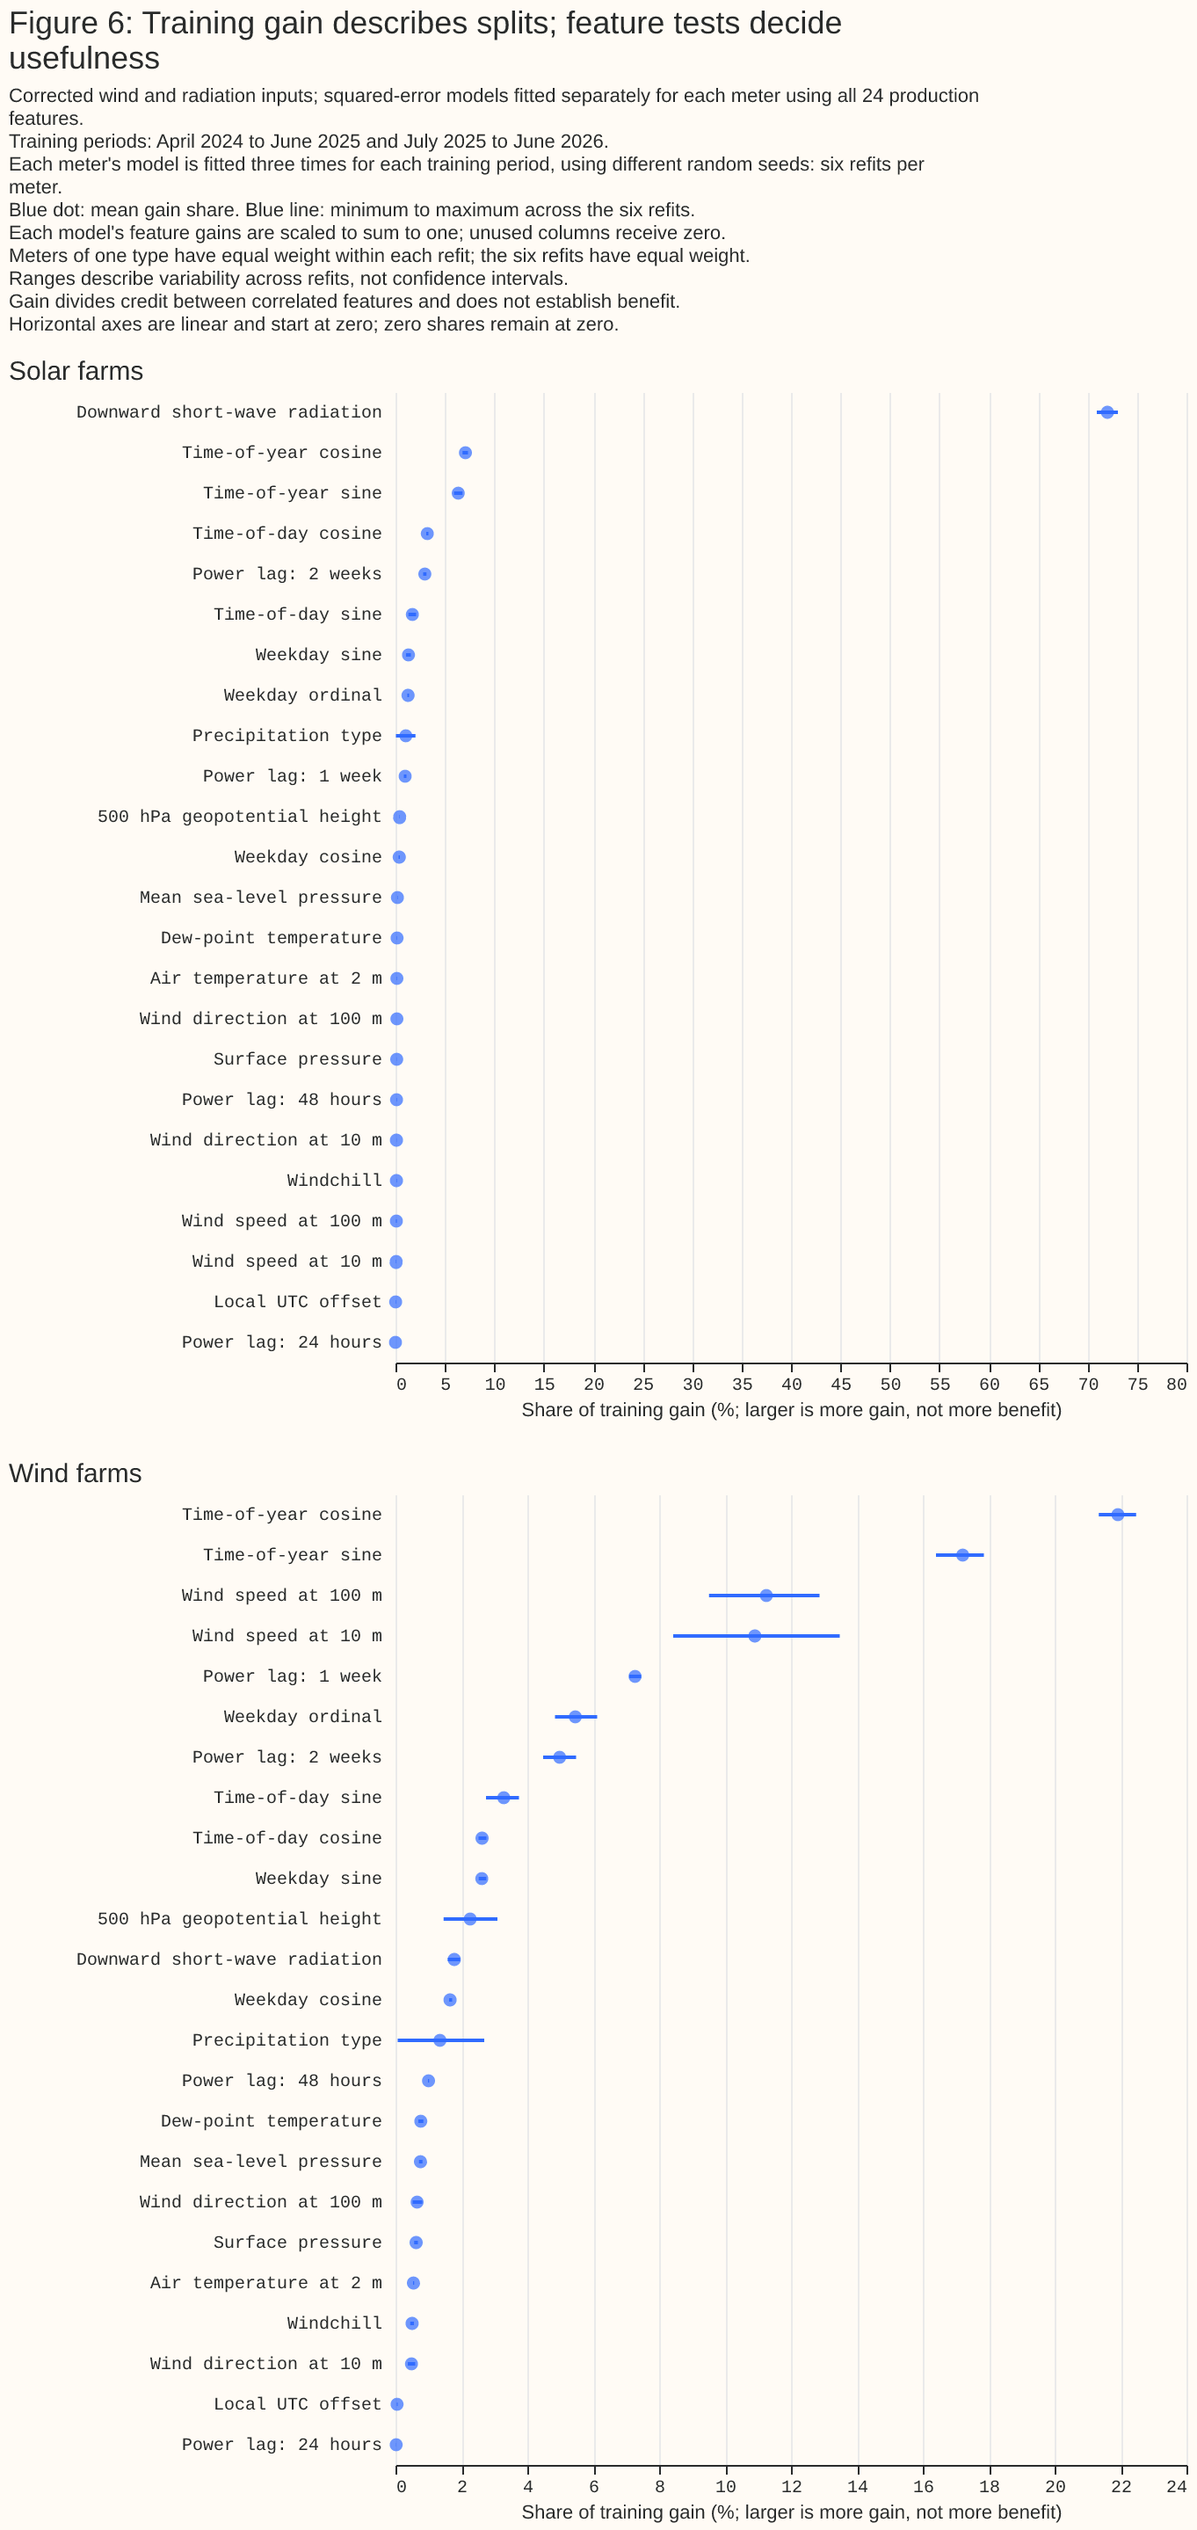
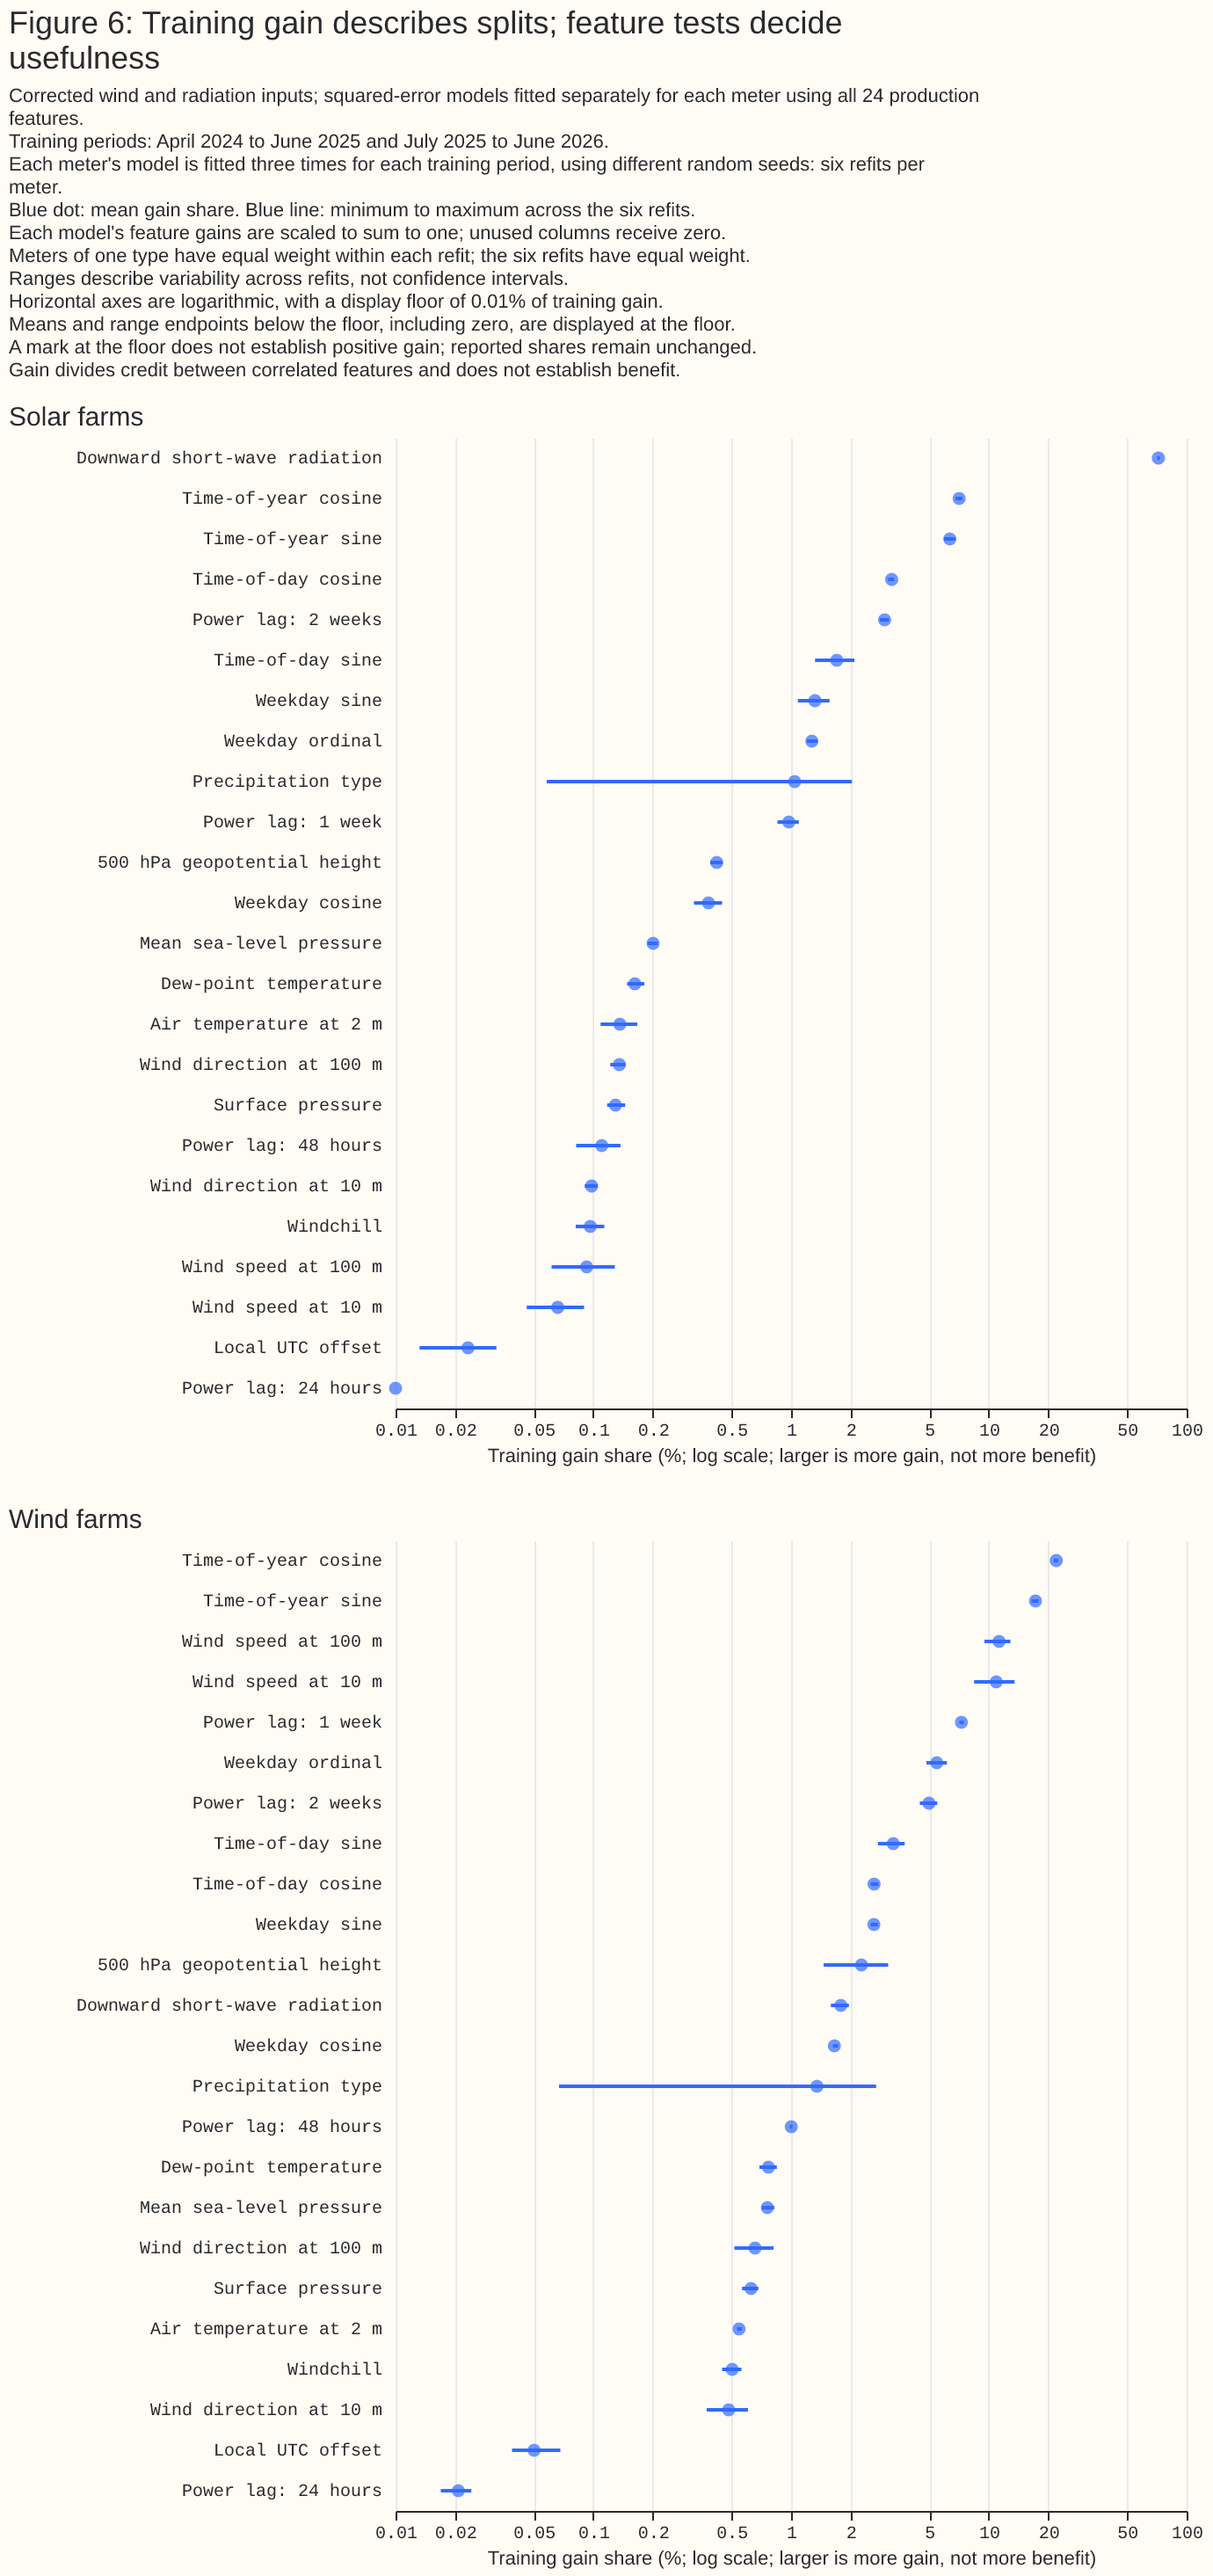
Clarify study figures and preserve report execution checks

diff --git a/studies/quick_wins/fixed_pipeline_importance_charts.py b/studies/quick_wins/fixed_pipeline_importance_charts.py
@@ -61,9 +61,28 @@ SUBTITLE: Final[tuple[str, ...]] = (
     "Each model's feature gains are scaled to sum to one; unused columns receive zero.",
     "Meters of one type have equal weight within each refit; the six refits have equal weight.",
     "Ranges describe variability across refits, not confidence intervals.",
+    "Horizontal axes are logarithmic, with a display floor of 0.01% of training gain.",
+    "Means and range endpoints below the floor, including zero, are displayed at the floor.",
+    "A mark at the floor does not establish positive gain; reported shares remain unchanged.",
     "Gain divides credit between correlated features and does not establish benefit.",
 )
-AXIS_TITLE: Final[str] = "Share of training gain (%; larger is more gain, not more benefit)"
+AXIS_TITLE: Final[str] = "Training gain share (%; log scale; larger is more gain, not more benefit)"
+DISPLAY_FLOOR_PERCENT: Final[float] = 0.01
+LOG_TICKS_PERCENT: Final[tuple[float, ...]] = (
+    0.01,
+    0.02,
+    0.05,
+    0.1,
+    0.2,
+    0.5,
+    1,
+    2,
+    5,
+    10,
+    20,
+    50,
+    100,
+)
 REPORT_COLUMNS: Final[frozenset[str]] = frozenset(
     {
         "series_type",
@@ -140,13 +159,21 @@ def _text(*, table: pl.DataFrame, number: str) -> str:
     for kind, title in PANELS.items():
         rows = table.filter(pl.col("series_type") == kind)
         lines.extend([title, AXIS_TITLE, *rows["label"].to_list(), ""])
-    lines.append("Horizontal axes are linear and start at zero; zero shares remain at zero.")
     return "\n".join(lines) + "\n"
 
 
 def _panel(*, rows: pl.DataFrame, title: str) -> charts.Panel:
     labels = rows["label"].to_list()
-    base = alt.Chart(rows).encode(
+    displayed = rows.with_columns(
+        display_mean_percent=pl.col("mean_percent").clip(lower_bound=DISPLAY_FLOOR_PERCENT),
+        display_min_percent=pl.col("min_percent").clip(lower_bound=DISPLAY_FLOOR_PERCENT),
+        display_max_percent=pl.col("max_percent").clip(lower_bound=DISPLAY_FLOOR_PERCENT),
+    )
+    scale = alt.Scale(type="log", domain=[DISPLAY_FLOOR_PERCENT, 100], nice=False, zero=False)
+    axis = alt.Axis(
+        values=list(LOG_TICKS_PERCENT), format=".2~f", labelOverlap=False, labelFlush=False
+    )
+    base = alt.Chart(displayed).encode(
         y=alt.Y(
             "label:N",
             sort=labels,
@@ -162,11 +189,11 @@ def _panel(*, rows: pl.DataFrame, title: str) -> charts.Panel:
         ),
     )
     interval = cast(alt.Chart, base.mark_rule(color=ocf.DATA_BLUE, strokeWidth=2)).encode(
-        x=alt.X("min_percent:Q", title=AXIS_TITLE, scale=alt.Scale(zero=True)),
-        x2=alt.X2("max_percent:Q"),
+        x=alt.X("display_min_percent:Q", title=AXIS_TITLE, scale=scale, axis=axis),
+        x2=alt.X2("display_max_percent:Q"),
     )
     point = cast(alt.Chart, base.mark_point(color=ocf.DATA_BLUE, filled=True, size=55)).encode(
-        x=alt.X("mean_percent:Q", title=AXIS_TITLE, scale=alt.Scale(zero=True)),
+        x=alt.X("display_mean_percent:Q", title=AXIS_TITLE, scale=scale, axis=axis),
     )
     return alt.layer(interval, point).properties(
         width=charts.PLOT_WIDTH_PX,
@@ -206,10 +233,7 @@ def main() -> None:
             panels=panels,
             number=args.number,
             title=TITLE,
-            subtitle=[
-                *SUBTITLE,
-                "Horizontal axes are linear and start at zero; zero shares remain at zero.",
-            ],
+            subtitle=list(SUBTITLE),
             figure_planning=None,
         )
         svg = args.output / "fixed_pipeline_importance.svg"

diff --git a/studies/quick_wins/fixed_pipeline_review_log.md b/studies/quick_wins/fixed_pipeline_review_log.md
@@ -206,3 +206,50 @@ matched report became available. Both main-fold G3 rows fall below the preregist
 absolute fair-CRPS threshold, despite their negative equal-month t intervals. The conditional
 best-point refit was therefore not triggered; its prepared queue is not an executed study input.
 Part 2's corresponding contrast remains unrun for this explicit gate decision.
+
+The root reviewed all seven prepared Part 1b supplementary selector configurations before any
+execution, including their source paths, exact planned labels, type/lead/metric filters, displayed
+columns and distinct bootstrap/equal-month summaries. Only completed, actually used sources may
+be exported. The long extracts belong in supplementary files; they do not silently combine
+folds or settings or turn precipitation availability eras into causal comparisons.
+
+The root also reviewed all 24 sensitivity report specifications against their main counterparts.
+Static reversal checks confirmed that only each fitting path's setting segment and the top-level
+setting changed; frames, seeds, labels, pairs, type restrictions and training-match checks remain
+identical. Inherited preparation and main-stage gate notes are historical, non-operational
+metadata. Actual sensitivity execution requires its corresponding completed sensitivity fits
+and the recorded root main-results checkpoint; none of these prepared reports has yet run.
+
+The final headline and radiation captions were shortened because the earlier explanatory text
+hid their plots below the initial screen. Unused weather-member, quantile and CDF discussion was
+removed together with the terms it explained. Exact scoring, periods, within-row weighting,
+random-seed meaning and full-history capacity scope remain explicit. Fresh first-reader and
+rule-by-rule prose checks required a plain explanation of pinball loss and an unambiguous
+separation of matched forecasts from equal meter/refit weights; both were accepted. The root
+reviewed every specification change before exporting text and inspected the final rendered PNGs.
+The publication assets now use headline text/render v10 and radiation text/render v17.
+
+The root reviewed the private two-worker report orchestration and every entry of its 52-report
+inventory before launch. Two accepted corrections use the verified virtualenv interpreter
+without dependency resolution and preserve errors in exclusive private logs rather than discard
+them. Each worker waits for completed frames and fits, runs reports serially with eight threads,
+and refuses existing outputs or automatic retries. The workers are running and waiting for
+Part 1b fits; their launch does not authorise a sensitivity fit before its main-results gate.
+
+The Part 2 supplementary selectors also passed fresh root review before execution: delivered
+CDF-bin shares, lead diagnostics and descriptive November availability-era summaries retain
+both recipes, exact scope labels and support counts. Their sensitivity sources are still pending.
+
+The importance figure now follows the study skill's logarithmic-axis rule for shares spanning
+orders of magnitude. The root freshly reviewed the display-only clamp, fixed 1–2–5 ticks and
+caption changes before execution. Means and range endpoints below 0.01%, including zero, appear
+at that floor; raw report shares and ranges remain unchanged. Isolated first-reader and
+rule-by-rule prose reviews cleared the exact floor explanation. Rendered inspection caught
+suppressed and then overlapping tick labels; freshly reviewed axis-label settings corrected
+both without changing text or data. Final text v4/render v6 shows all tick labels and all 24
+features clearly. The public assets supersede the earlier linear figure.
+
+The complete study suite passed with 3,338 tests passed and five skipped in 210.55 seconds.
+Subsequent code edits affect only axis-label visibility and alignment, verified by rendering.
+Repository-wide Ruff checks and formatting checks passed for all 942 Python files, and the
+repository-wide type check passed.

diff --git a/docs/studies/forecasts/fixed-pipeline-lean-features.md b/docs/studies/forecasts/fixed-pipeline-lean-features.md
@@ -500,6 +500,9 @@ weight in the final mean. The blue dots show mean gain shares; the blue lines sh
 and maximum across refits. These training summaries remain descriptive alongside the separate
 held-out loss comparisons.
 
+The logarithmic axes show small shares alongside large ones. Means and range endpoints below
+0.01%, including zero, appear at that display floor; a floor mark does not establish positive gain.
+
 **The input audit confirms changed radiation and wind-derived features in both folds; forecast
 benefit requires the matched loss comparisons above.** Each treatment exposes the same 32
 engineered fields on matched rows. That audit inventory includes fields available for feature
